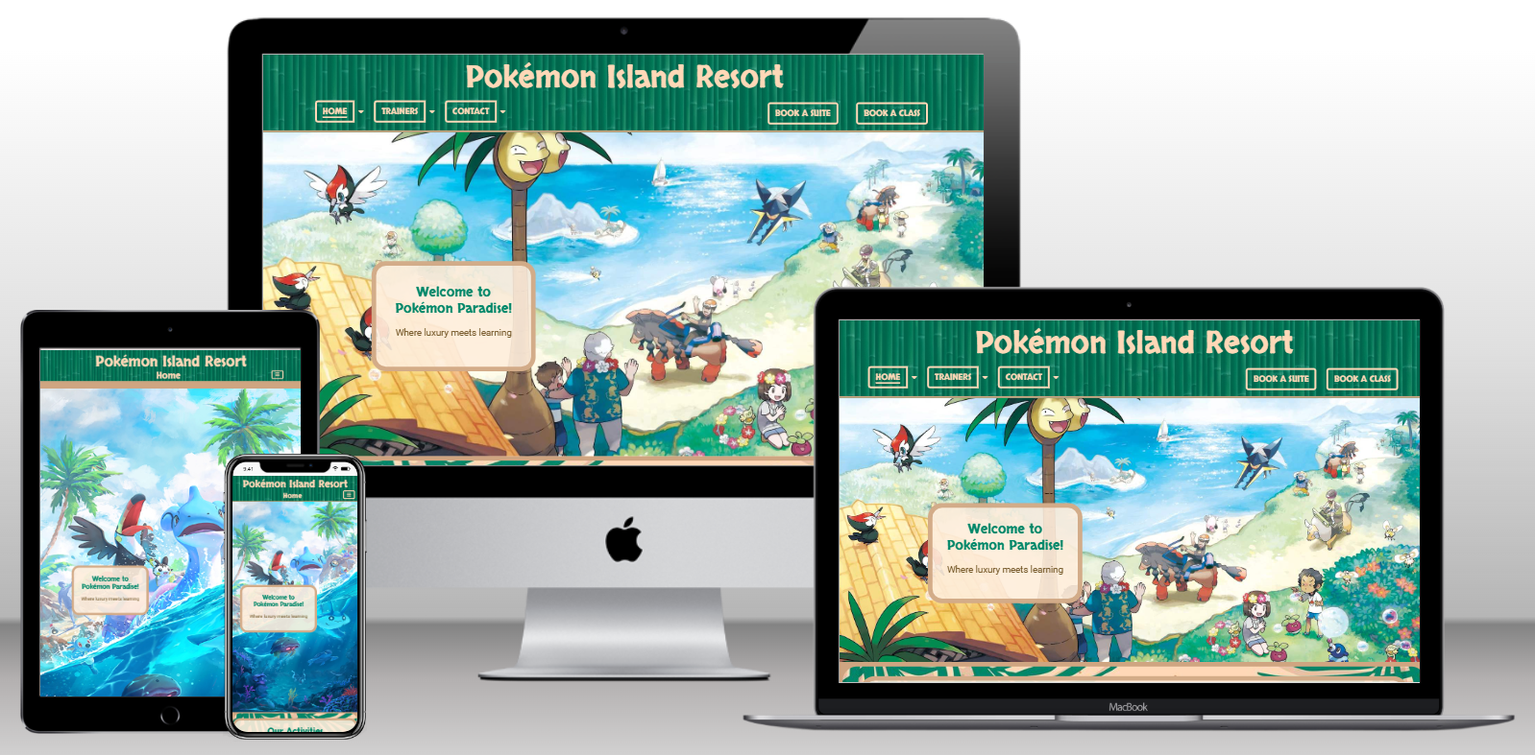
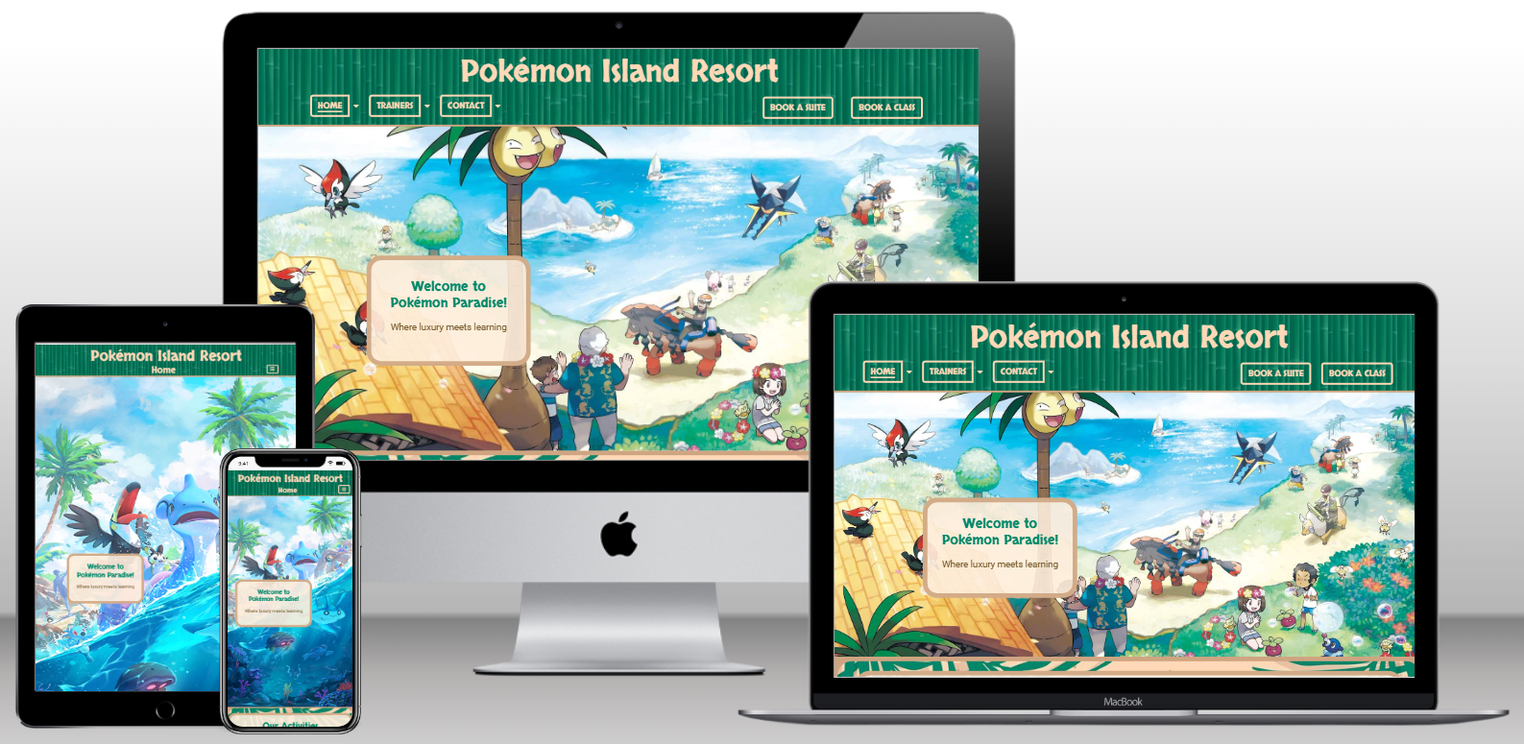
Add fixed Home Page mockup photo and revert code back to correct responsive changes

Changed region(s): [[0.0, 0.031, 0.988, 0.991], [0.1544, 0.0, 0.6793, 0.0619], [0.3396, 0.7742, 0.494, 0.8052]]

diff --git a/index.html b/index.html
@@ -20,11 +20,11 @@
     <header class="edge-background head-nav fixed-top">
         <div class="layer">
             <h1 class="display-3 head-title">Pokémon Island Resort</h1>
-            <nav class="navbar navbar-dark navbar-expand-xl py-0 py-xl-2">
+            <nav class="navbar navbar-dark navbar-expand-lg py-0 py-lg-2">
                 <div class="container">
                     <!-- Navbar Page Title - Shows up on tablet/mobile view, when burger menu is visible -->
-                    <h1 class="page-title mb-0 mx-auto d-xl-none">Home</h1>
-                    <!-- d-xl-none makes the page title hidden when all navbar links are visible (laptop or larger) -->
+                    <h1 class="page-title mb-0 mx-auto d-lg-none">Home</h1>
+                    <!-- d-lg-none makes the page title hidden when all navbar links are visible (laptop or larger) -->
                     <button class="navbar-toggler burger-icon" type="button" data-bs-toggle="collapse"
                         data-bs-target="#navbarSupportedContent" aria-controls="navbarSupportedContent"
                         aria-expanded="false" aria-label="Toggle navigation">
@@ -32,7 +32,7 @@
                     </button>
                     <div class="collapse navbar-collapse" id="navbarSupportedContent">
                         <!-- Left navbar items on laptop and larger -->
-                        <div class="navbar-nav me-auto mb-2 gap-2 d-none d-xl-block">
+                        <div class="navbar-nav me-auto mb-2 gap-2 d-none d-lg-block">
 
                             <!-- Navbar Split Button - Home -->
                             <div class="btn-group px-1 navbar-hover">
@@ -131,7 +131,7 @@
                         </div>
 
                         <!-- Right navbar items on laptop and larger -->
-                        <div class="navbar-nav me-auto me-2 me-xl-0 gap-2 d-none d-xl-block">
+                        <div class="navbar-nav me-auto me-2 me-lg-0 gap-2 d-none d-lg-block">
                             <!-- Single Button - Book a Suite -->
                             <div class="btn-group px-2 px-xxl-3 navbar-hover">
                                 <!-- px adds padding around sides of buttons - increased when no dropdown option -->
@@ -154,7 +154,7 @@
                         </div>
 
                         <!-- All navbar items for tablets and smaller -->
-                        <ul class="navbar-nav me-auto mb-2 mb-xl-0 d-block d-xl-none burger-links">
+                        <ul class="navbar-nav me-auto mb-2 mb-lg-0 d-block d-lg-none burger-links">
                             <li class="nav-item">
                                 <a class="nav-link" href="index.html#activities">Our Activities</a>
                             </li>
@@ -184,9 +184,7 @@
         <!-- Hero Image Section -->
         <section class="hero m-0 p-0">
             <picture>
-                <!-- <source srcset="assets/images/hero-tablet.jpg" media="(max-width: 991px)"> -->
-<!-- Temporary sizing to get tablet photo for readme mockups looking right -->
-<source srcset="assets/images/hero-tablet.jpg" media="(max-width: 1200px)">
+                <source srcset="assets/images/hero-tablet.jpg" media="(max-width: 991px)">
                 <img src="assets/images/island.jpeg" alt="Various trainers and pokemon enjoying the island">
             </picture>
             <article class="hero-bubble text-center floating-section">
@@ -210,13 +208,13 @@
                 <!-- Activity 1 : Hot Springs -->
                 <div class="row justify-content-center">
                     <article
-                        class="col-12 col-xl-5 text-center floating-section d-flex flex-column justify-content-evenly">
+                        class="col-12 col-lg-5 text-center floating-section d-flex flex-column justify-content-evenly">
                         <!-- Added d-flex flex-column justify-content-evenly/justify-content-center to all articles and image divs so that the text/images are centered vertically in comparison to the opposing side, so it looks good on all screen sizes-->
                         <h2 class="display-6">Hot Springs & Fishing&nbsp;Pools</h2>
                         <!-- Activity 1 : Hot Springs - Single image that only shows on mobile/tablet screens, inside text box -->
                         <img src="assets/images/activity-springs-hot-soak.jpg"
                             alt="Trainer Kiawe and Charizard in the hot springs"
-                            class="img-fluid floating-section d-block d-xl-none">
+                            class="img-fluid floating-section d-block d-lg-none">
                         <p>
                             Immerse yourself in the soothing embrace of our natural hot springs and tranquil fishing
                             pools, surrounded by breathtaking views of the island's lush landscapes and
@@ -235,39 +233,39 @@
                         </p>
                         <p class="lead">View all of our Suites&nbsp<a href="suites.html" class="internal-link">here</a></p>
                     </article>
-                    <div class="col-12 col-xl-6 order-3 d-flex flex-column justify-content-evenly">
+                    <div class="col-12 col-lg-6 order-3 d-flex flex-column justify-content-evenly">
                         <!-- Activity 1 : Hot Springs - Images that only show on laptop + screens, beside the text boxes -->
                         <img src="assets/images/activity-springs-hot-soak.jpg"
                             alt="Trainer Kiawe and Charizard in the hot springs"
-                            class="img-fluid floating-section d-none d-xl-block">
+                            class="img-fluid floating-section d-none d-lg-block">
                         <img src="assets/images/activity-springs-fishing-lana.jpg"
                             alt="Lana Fishing at one of the rocky pools"
-                            class="img-fluid floating-section d-none d-xl-block">
+                            class="img-fluid floating-section d-none d-lg-block">
                         <img src="assets/images/activity-springs-fishing-mallow.jpg"
                             alt="Trainer Mallow fishing in one of the fishing pools"
-                            class="img-fluid floating-section d-none d-xl-block d-xl-none">
+                            class="img-fluid floating-section d-none d-lg-block d-xl-none">
                     </div>
                 </div>
                 <!-- End of Activity 1 : Hot Springs -->
 
                 <!-- Activity 2 : Beach Relaxation -->
                 <div class="row justify-content-center">
-                    <div class="col-12 col-xl-6 order-2 order-xl-1 d-flex flex-column justify-content-evenly">
+                    <div class="col-12 col-lg-6 order-2 order-lg-1 d-flex flex-column justify-content-evenly">
                         <!-- Activity 2 : Beach Relaxation - Images that only show on laptop + screens, beside the text boxes -->
                         <img src="assets/images/activity-beach-calm.jpg" alt="A relaxing day at the Beach"
-                            class="img-fluid floating-section d-none d-xl-block">
+                            class="img-fluid floating-section d-none d-lg-block">
                         <img src="assets/images/activity-beach-fun1.jpg"
                             alt="People and Pokémon having fun at the Beach"
-                            class="img-fluid floating-section d-none d-xl-block d-xxl-none">
+                            class="img-fluid floating-section d-none d-lg-block d-xxl-none">
                         <img src="assets/images/activity-beach-good.jpg" alt="People and Pokémon having fun at the Beach"
-                            class="img-fluid floating-section d-none d-xl-block d-xl-none d-xxl-block">
+                            class="img-fluid floating-section d-none d-lg-block d-xl-none d-xxl-block">
                     </div>
                     <article
-                        class="col-12 col-xl-5 order-1 order-xl-2 text-center floating-section d-flex flex-column justify-content-evenly">
+                        class="col-12 col-lg-5 order-1 order-lg-2 text-center floating-section d-flex flex-column justify-content-evenly">
                         <h2 class="display-6">Beach Relaxation &&nbsp;Entertainment</h2>
                         <!-- Activity 2 : Beach Relaxation - Single image that only shows on mobile/tablet screens, inside text box -->
                         <img src="assets/images/activity-beach-calm.jpg" alt="Pokémon at the beach looking out to sea"
-                            class="img-fluid floating-section d-block d-xl-none">
+                            class="img-fluid floating-section d-block d-lg-none">
                         <p>
                             Immerse yourself in the vibrant energy of our beach entertainment, where the fun never ends.
                             Join us for lively beach parties featuring music, dancing, and unforgettable&nbsp;moments.
@@ -277,7 +275,7 @@
                             their Pokémon, creating a spectacle of light and&nbsp;movement.
                         </p>
                         <p>
-                            Take a refreshing dip in the crystal-clear waters or induxle in luxurious pamper sessions at
+                            Take a refreshing dip in the crystal-clear waters or indulge in luxurious pamper sessions at
                             our beachfront spa, designed to rejuvenate both trainers and&nbsp;Pokémon.
                         </p>
                         <p>
@@ -299,12 +297,12 @@
                 <!-- Activity 3 : Berry Picking -->
                 <div class="row justify-content-center">
                     <article
-                        class="col-12 col-xl-5 text-center floating-section d-flex flex-column justify-content-evenly">
+                        class="col-12 col-lg-5 text-center floating-section d-flex flex-column justify-content-evenly">
                         <h2 class="display-6">Berry Picking & Wild&nbsp;Foraging</h2>
                         <!-- Activity 3 : Berry Picking - Single image that only shows on mobile/tablet screens, inside text box -->
                         <img src="assets/images/activity-berry-mallow.jpg"
                             alt="Trainer Mallow and pokémon picking berries"
-                            class="img-fluid floating-section d-block d-xl-none">
+                            class="img-fluid floating-section d-block d-lg-none">
                         <p>
                             Immerse yourself in the joy of berry picking and wild foraging within our expansive greenery
                             and vibrant
@@ -324,40 +322,40 @@
                         </p>
                         <p class="lead">View all of our Suites&nbsp<a href="suites.html" class="internal-link">here</a></p>
                     </article>
-                    <div class="col-12 col-xl-6 d-flex flex-column justify-content-evenly">
+                    <div class="col-12 col-lg-6 d-flex flex-column justify-content-evenly">
                         <!-- Activity 3 : Berry Picking - Images that only show on laptop + screens, beside the text boxes -->
                         <img src="assets/images/activity-berry-mallow-mush.jpg"
                             alt="Trainer Mallow smiling whilst harvesting mushrooms"
-                            class="img-fluid floating-section d-none d-xl-block order-xl-3 order-xl-2">
+                            class="img-fluid floating-section d-none d-lg-block order-lg-3 order-xl-2">
                         <img src="assets/images/activity-berry-picking.jpg"
                             alt="Various Pokémon picking berries on the beach"
-                            class="img-fluid floating-section d-none d-xl-block order-xl-2 order-xl-1">
+                            class="img-fluid floating-section d-none d-lg-block order-lg-2 order-xl-1">
                         <img src="assets/images/activity-berry-mallow.jpg"
                             alt="Trainer Mallow and pokémon picking berries"
-                            class="img-fluid floating-section d-none d-xl-block d-xl-none order-xl-1">
+                            class="img-fluid floating-section d-none d-lg-block d-xl-none order-lg-1">
                     </div>
                 </div>
                 <!-- End of Activity 3 : Berry Picking -->
 
                 <!-- Activity 4 : Arena Battles -->
                 <div class="row justify-content-center">
-                    <div class="col-12 col-xl-6 order-2 order-xl-1 d-flex flex-column justify-content-evenly">
+                    <div class="col-12 col-lg-6 order-2 order-lg-1 d-flex flex-column justify-content-evenly">
                         <!-- Activity 4 : Arena Battles - Images that only show on laptop + screens, beside the text boxes -->
                         <img src="assets/images/activity-battle-mallow-lana-arena.jpg"
                             alt="Trainer Lana and her pokémon in the Arena ready to battle"
-                            class="img-fluid floating-section d-none d-xl-block d-xl-none">
+                            class="img-fluid floating-section d-none d-lg-block d-xl-none">
                         <img src="assets/images/activity-battle-pokemon.jpg" alt="Pokemon Battling in the Pokémon Arena"
-                            class="img-fluid floating-section d-none d-xl-block">
+                            class="img-fluid floating-section d-none d-lg-block">
                         <img src="assets/images/activity-battle-lana-mallow.jpg"
                             alt="Mallow and Lana high fiving with the arena in the background"
-                            class="img-fluid floating-section d-none d-xl-block">
+                            class="img-fluid floating-section d-none d-lg-block">
                     </div>
                     <article
-                        class="col-12 col-xl-5 order-1 order-xl-2 text-center floating-section d-flex flex-column justify-content-evenly">
+                        class="col-12 col-lg-5 order-1 order-lg-2 text-center floating-section d-flex flex-column justify-content-evenly">
                         <h2 class="display-6">Arena Battles</h2>
                         <!-- Activity 4 : Arena Battles - Single image that only shows on mobile/tablet screens, inside text box -->
                         <img src="assets/images/activity-battle-pokemon.jpg" alt="Pokemon Battling in the Pokémon Arena"
-                            class="img-fluid floating-section d-block d-xl-none">
+                            class="img-fluid floating-section d-block d-lg-none">
                         <p>
                             Experience the thrill of Pokémon battles in our state-of-the-art arena, where trainers and
                             their Pokémon can showcase their skills in friendly&nbsp;competitions.
@@ -402,11 +400,11 @@
 
                 <div class="row justify-content-center" id="trainer1">
                     <article
-                        class="col-12 col-xl-5 text-center floating-section d-flex flex-column justify-content-evenly">
+                        class="col-12 col-lg-5 text-center floating-section d-flex flex-column justify-content-evenly">
                         <h2 class="display-6">Trainer Kiawe</h2>
                         <!-- Trainer 1 : Kiawe - Single image that only shows on mobile/tablet screens, inside text box -->
                         <img src="assets/images/trainer-kaiwe-1.jpg" alt="Trainer Kiawe"
-                            class="img-fluid floating section d-block d-xl-none">
+                            class="img-fluid floating section d-block d-lg-none">
                         <p>
                             Kiawe is a passionate and energetic trainer specialising in fire, flying and rock Pokémon.
                             Known for his dynamic teaching style, Kiawe brings excitement and intensity to every class.
@@ -418,14 +416,14 @@
                             <h3>Fire Breathing Class</h3>
                         <h3 class="lead">Classes with Tauros:</h3>
                             <h3>Beach & Dune Ride</h3>
-                            <a href="classes.html" class="btn btn-light btn-xl button-primary">Book Now</a>
+                            <a href="classes.html" class="btn btn-light btn-lg button-primary">Book Now</a>
                     </article>
-                    <div class="col-12 col-xl-6 d-flex flex-column justify-content-evenly">
+                    <div class="col-12 col-lg-6 d-flex flex-column justify-content-evenly">
                         <!-- Trainer 1 : Kiawe - Images that only show on laptop + screens, beside the text boxes -->
                         <img src="assets/images/trainer-kaiwe-1.jpg" alt="Trainer Kiawe"
-                            class="img-fluid floating-section d-none d-xl-block">
+                            class="img-fluid floating-section d-none d-lg-block">
                         <img src="assets/images/trainer-kiawe-2.jpg" alt="Trainer Kiawe climbing a palm tree"
-                            class="img-fluid floating-section d-none d-xl-block d-xl-none">
+                            class="img-fluid floating-section d-none d-lg-block d-xl-none">
                         <img src="assets/images/trainer-kiawe-charizard-delivery.jpg"
                             alt="Trainer Kiawe delivering food supplies with Charizard"
                             class="img-fluid floating-section d-none d-xl-block">
@@ -439,21 +437,21 @@
             <div class="container">
 
                 <div class="row justify-content-center" id="trainer2">
-                    <div class="col-12 col-xl-6 order-2 order-xl-1 d-flex flex-column justify-content-evenly">
+                    <div class="col-12 col-lg-6 order-2 order-lg-1 d-flex flex-column justify-content-evenly">
                         <!-- Trainer 2 : Mallow - Images that only show on laptop + screens, beside the text boxes -->
                         <img src="assets/images/trainer-mallow-1.jpg" alt="Trainer Mallow smiling with the sea behind her"
-                            class="img-fluid floating-section d-none d-xl-block">
+                            class="img-fluid floating-section d-none d-lg-block">
                         <img src="assets/images/trainer-mallow-and-flygon2.jpg" alt="Trainer Mallow flying Flygon"
-                            class="d-none d-xl-block d-xl-none img-fluid floating-section">
+                            class="d-none d-lg-block d-xl-none img-fluid floating-section">
                         <img src="assets/images/trainer-mallow-2.jpg" alt="Trainer Mallow with some grass Pokémon"
-                            class="img-fluid floating-section d-none d-xl-block">
+                            class="img-fluid floating-section d-none d-lg-block">
                     </div>
                     <article
-                        class="col-12 col-xl-5 order-1 order-xl-2 text-center floating-section d-flex flex-column justify-content-evenly">
+                        class="col-12 col-lg-5 order-1 order-lg-2 text-center floating-section d-flex flex-column justify-content-evenly">
                         <h2 class="display-6">Trainer Mallow</h2>
                         <!-- Trainer 2 : Mallow - Single image that only shows on mobile/tablet screens, inside text box -->
                         <img src="assets/images/trainer-mallow-1.jpg" alt="Trainer Mallow"
-                            class="img-fluid floating section d-block d-xl-none">
+                            class="img-fluid floating section d-block d-lg-none">
                         <p>
                             Mallow is a skilled trainer specializing in grass and ground Pokémon. Whether you're
                             learning to fly or about foraging to discover the island's natural bounty, Mallow ensures
@@ -465,18 +463,18 @@
                             <h3>Flying Class</h3>
                         <h3 class="lead">Classes with Tauros:</h3>
                             <h3>Beach & Dune Ride</h3>
-                        <a href="classes.html" class="btn btn-light btn-xl button-primary">Book Now</a>
+                        <a href="classes.html" class="btn btn-light btn-lg button-primary">Book Now</a>
                     </article>
                 </div>
 
                 <div class="row justify-content-center" id="trainer3">
                     <article
-                        class="col-12 col-xl-5 text-center floating-section d-flex flex-column justify-content-evenly">
+                        class="col-12 col-lg-5 text-center floating-section d-flex flex-column justify-content-evenly">
                         <h2 class="display-6">Trainer Lana</h2>
                         <!-- Trainer 3 : Lana - Single image that only shows on mobile/tablet screens, inside text box -->
                         <img src="assets/images/trainer-lana-popplio.jpg"
                             alt="Trainer Lana sitting happily with Popplio"
-                            class="img-fluid floating-section d-block d-xl-none">
+                            class="img-fluid floating-section d-block d-lg-none">
                         <p>
                             Lana is a water-type Pokémon expert known for her calm demeanor and exceptional skills in
                             aquatic environments. She specializes in teaching trainers how to bond with their Pokémon
@@ -488,17 +486,17 @@
                             <h3>Ocean Riding &&nbsp;Water&nbsp;Skills</h3>
                         <h3 class="lead mt-2">Classes with Popplio:</h3>
                             <h3>Snorkeling &&nbsp;Diving</h3>
-                        <a href="classes.html" class="btn btn-light btn-xl button-primary">Book Now</a>
+                        <a href="classes.html" class="btn btn-light btn-lg button-primary">Book Now</a>
                     </article>
-                    <div class="col-12 col-xl-6 d-flex flex-column justify-content-evenly">
+                    <div class="col-12 col-lg-6 d-flex flex-column justify-content-evenly">
                         <!-- Trainer 3 : Lana - Images that only show on laptop + screens, beside the text boxes -->
                         <img src="assets/images/trainer-lana-popplio.jpg"
                             alt="Trainer Lana sitting happily with Popplio"
-                            class="img-fluid floating-section d-none d-xl-block">
+                            class="img-fluid floating-section d-none d-lg-block">
                         <img src="assets/images/trainer-lana-feeding.webp" alt="Trainer Lana feeding a Pokémon"
-                            class="img-fluid floating-section d-none d-xl-block d-xl-none">
+                            class="img-fluid floating-section d-none d-lg-block d-xl-none">
                         <img src="assets/images/trainer-lana-water.jpg" alt="Trainer Lana swimming and smiling"
-                            class="img-fluid floating-section d-none d-xl-block">
+                            class="img-fluid floating-section d-none d-lg-block">
                     </div>
                 </div>
 
@@ -510,7 +508,7 @@
         <section id="contact-us">
             <div class="container">
                 <div class="row justify-content-center">
-                    <div class="col-12 col-xl-11 text-center floating-section">
+                    <div class="col-12 col-lg-11 text-center floating-section">
                         <h1 class="display-4">Send Us a Message</h1>
                         <p class="lead">
                             If you have any questions, please let us know here and we
@@ -519,26 +517,26 @@
 
                         <form action="success.html" method="GET" class="col-12 mx-auto" id="form">
                             <div class="row justify-content-center">
-                                <div class="col-12 col-xl-5">
+                                <div class="col-12 col-lg-5">
                                     <label for="name" class="form-label h3">
                                         Name
                                     </label>
                                     <input id="name" name="name" type="text" required>
                                 </div>
-                                <div class="col-12 col-xl-6 mb-3">
+                                <div class="col-12 col-lg-6 mb-3">
                                     <label for="email" class="form-label h3">
                                         Email
                                     </label>
                                     <input id="email" name="email" type="email" required>
                                 </div>
-                                <div class="col-12 col-xl-11 mb-3">
+                                <div class="col-12 col-lg-11 mb-3">
                                     <label for="message" class="form-label h3">
                                         Message
                                     </label>
                                     <textarea rows="6" id="message" name="message" required></textarea>
                                 </div>
                             </div>
-                            <button type="submit" class="btn btn-xl button-primary">
+                            <button type="submit" class="btn btn-lg button-primary">
                                 Send
                             </button>
                         </form>
@@ -557,7 +555,7 @@
             <div class="container">
                 <div class="row justify-content-center">
 
-                    <div class="col-12 col-xl-8 d-flex justify-content-evenly">
+                    <div class="col-12 col-lg-8 d-flex justify-content-evenly">
                         <a href="https://www.facebook.com" target="_blank" rel="noopener"
                             aria-label="Visit our Facebook page (opens in a new tab)">
                             <i class="fa-brands fa-square-facebook social-media-icon"></i>
@@ -571,7 +569,7 @@
                             <i class="fa-brands fa-x-twitter social-media-icon"></i>
                             <span class="d-none d-md-block">Twitter / X</span></a>
                     </div>
-                    <div class="col-12 col-xl-8 justify-content-center">
+                    <div class="col-12 col-lg-8 justify-content-center">
                         <p class="text-right"><i class="fa-regular fa-copyright"></i> 2025 Pokemon Island Resort</p>
                     </div>
 

diff --git a/assets/css/style.css b/assets/css/style.css
@@ -374,23 +374,14 @@ img.floating-section {
         padding: 30px;
         left: 12%
     }
-
-        /* Scroll Fix */
-    main {
-        margin-top: 133.5px;
-        /* this needs changing as the navbar height changes at different screen sizes, and matching with below */
-    }
-/* Remove this after */
-
 }
 
 @media (max-width: 1024px) {
     /* Scroll Fix */
     main {
-        margin-top: 133.5px;
+        margin-top: 154px;
         /* this needs changing as the navbar height changes at different screen sizes, and matching with below */
     }
-    /* change back after to match below */
 
     html {
         scroll-padding-top: 154px;
